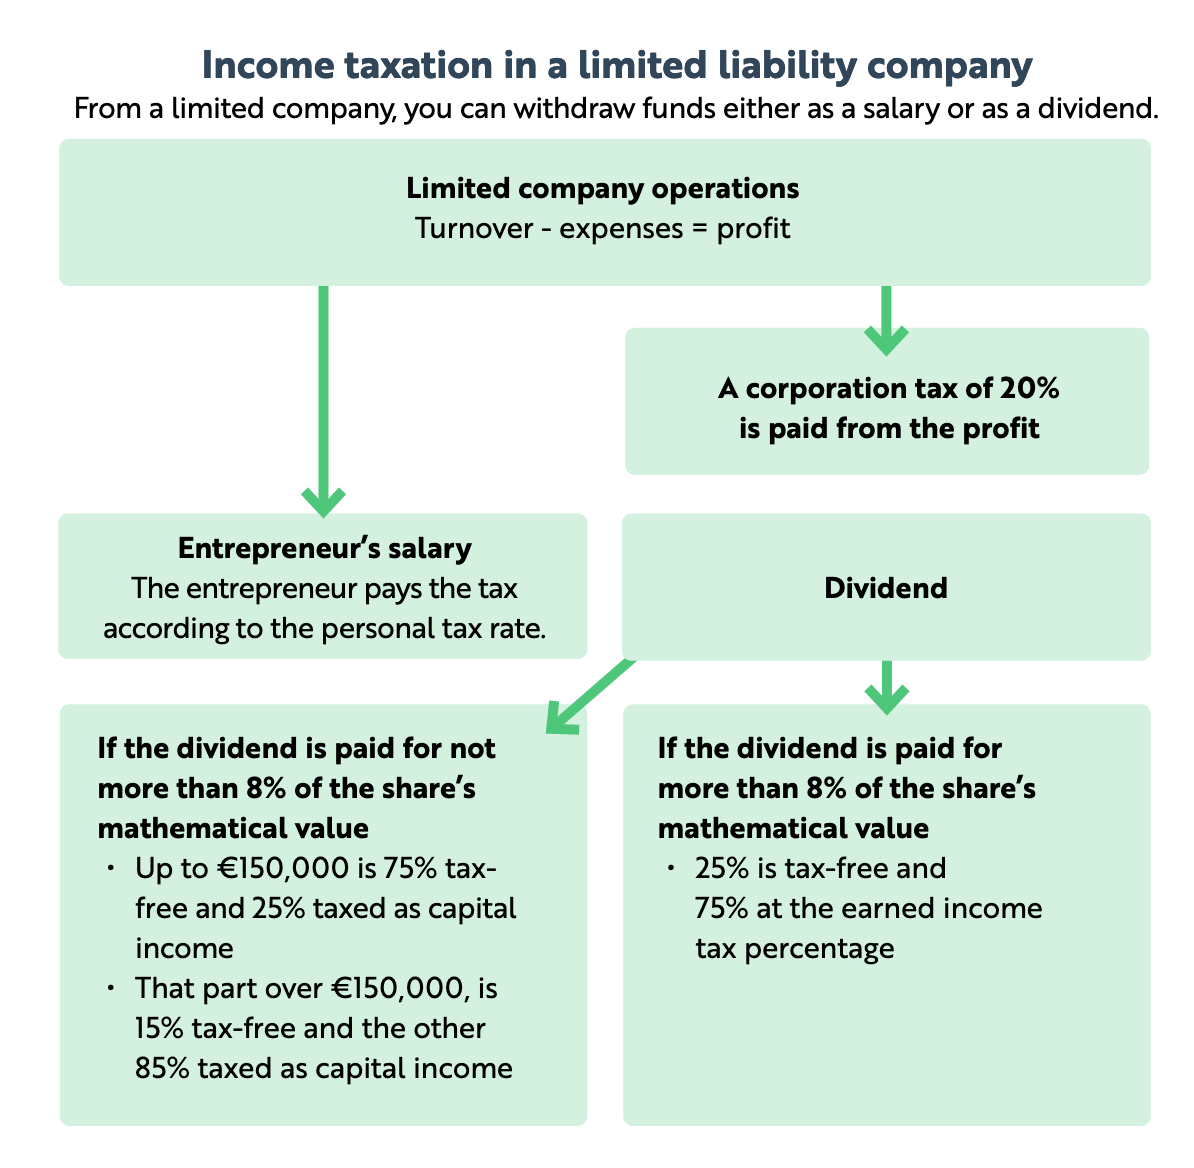
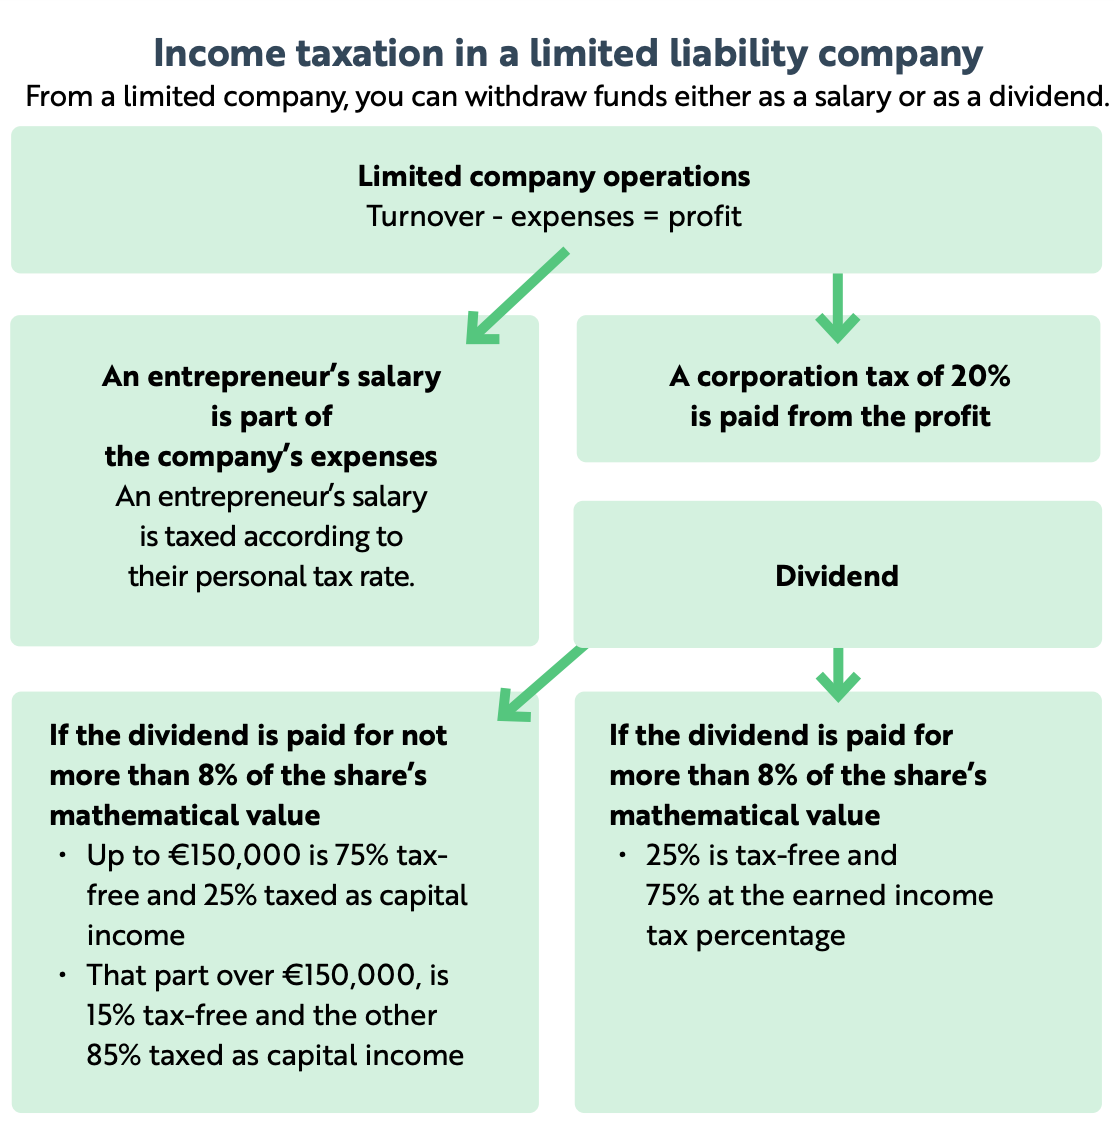
update limited liability company taxation image and link

diff --git a/README.md b/README.md
@@ -835,7 +835,7 @@ However, an overview of fundamentals can be illustrated.
 [limited liability company taxation fundamentals image]: https://raw.githubusercontent.com/sam-hosseini/freelancing-in-finland/main/images/limited_liability_taxation.png
 [limited liability company taxation fundamentals link]: https://raw.githubusercontent.com/sam-hosseini/freelancing-in-finland/main/images/limited_liability_taxation.png
 
-\* Taken from page 73 of [Finnish Enterprise Agencies guide to becoming an Entrepreneur in Finland - 2021](https://uusyrityskeskus.fi/wp-content/uploads/2021/02/Perustamisopas_2021_EN.pdf)
+\* Taken from page 76 of [Finnish Enterprise Agencies guide to becoming an Entrepreneur in Finland - 2024](https://uusyrityskeskus.fi/wp-content/uploads/2024/02/Uusyrityskeskus_Guide_Becoming_an_Entrepreneur_in_Finland_2024-2-1.pdf)
 
 ### Ensure that your obligations are fulfilled continuously
 
